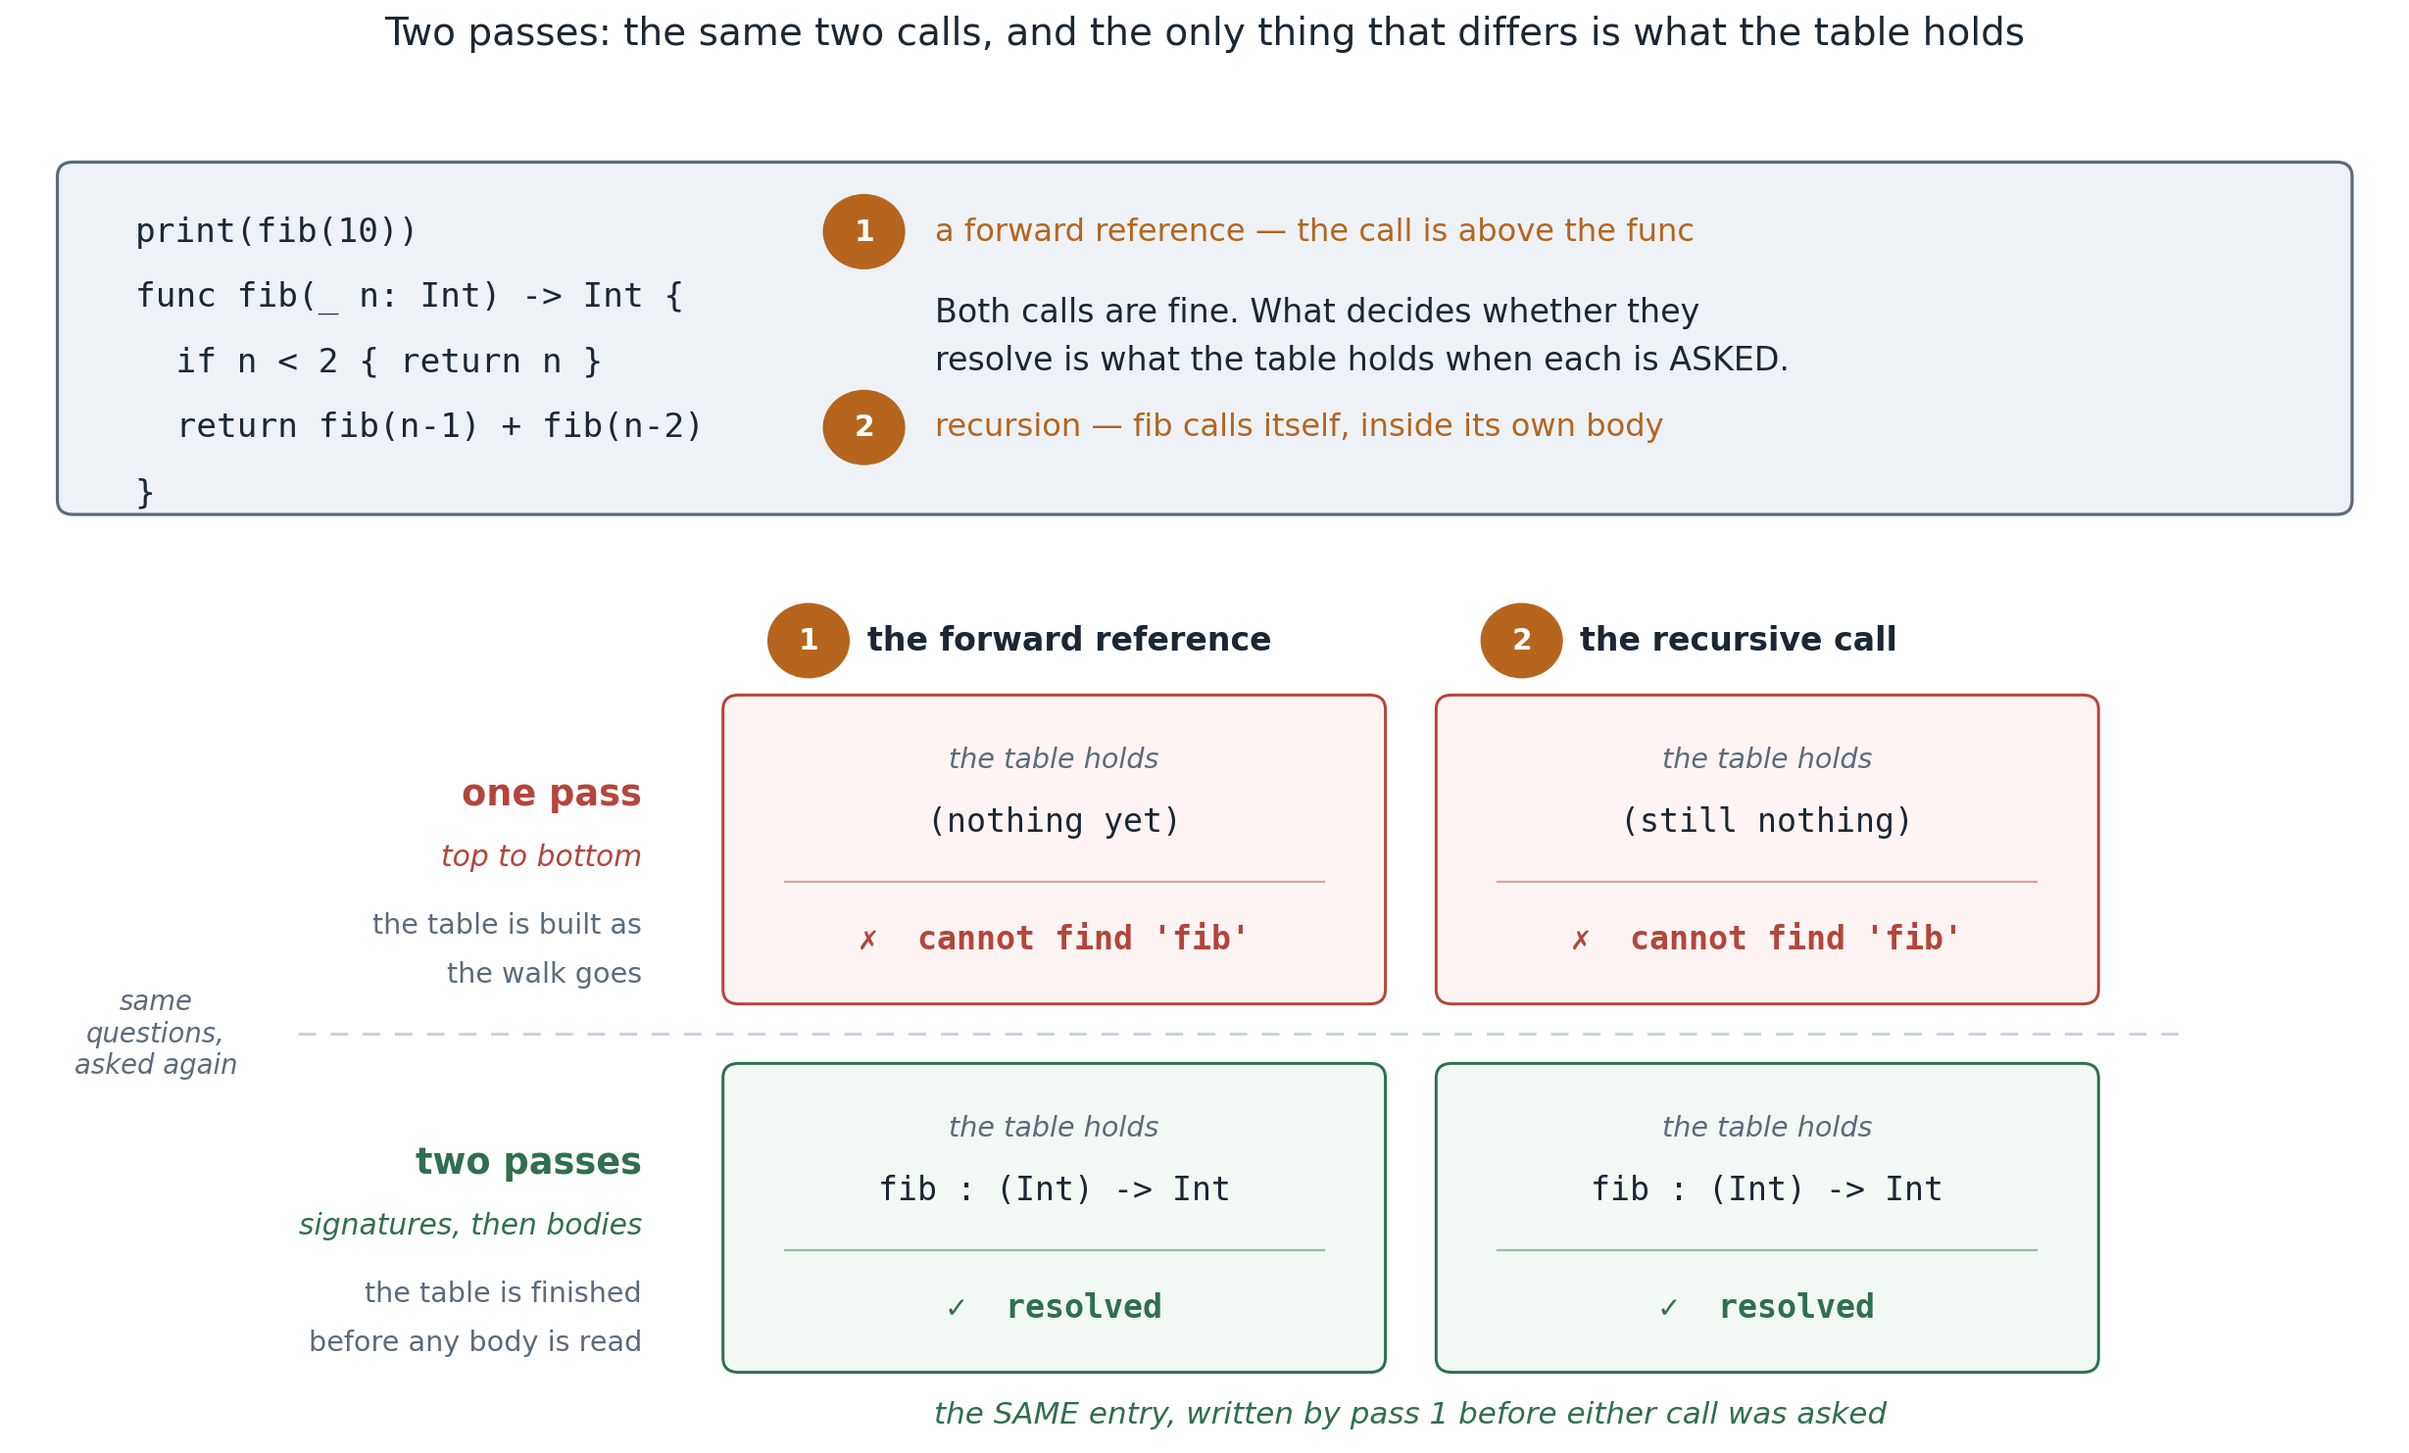
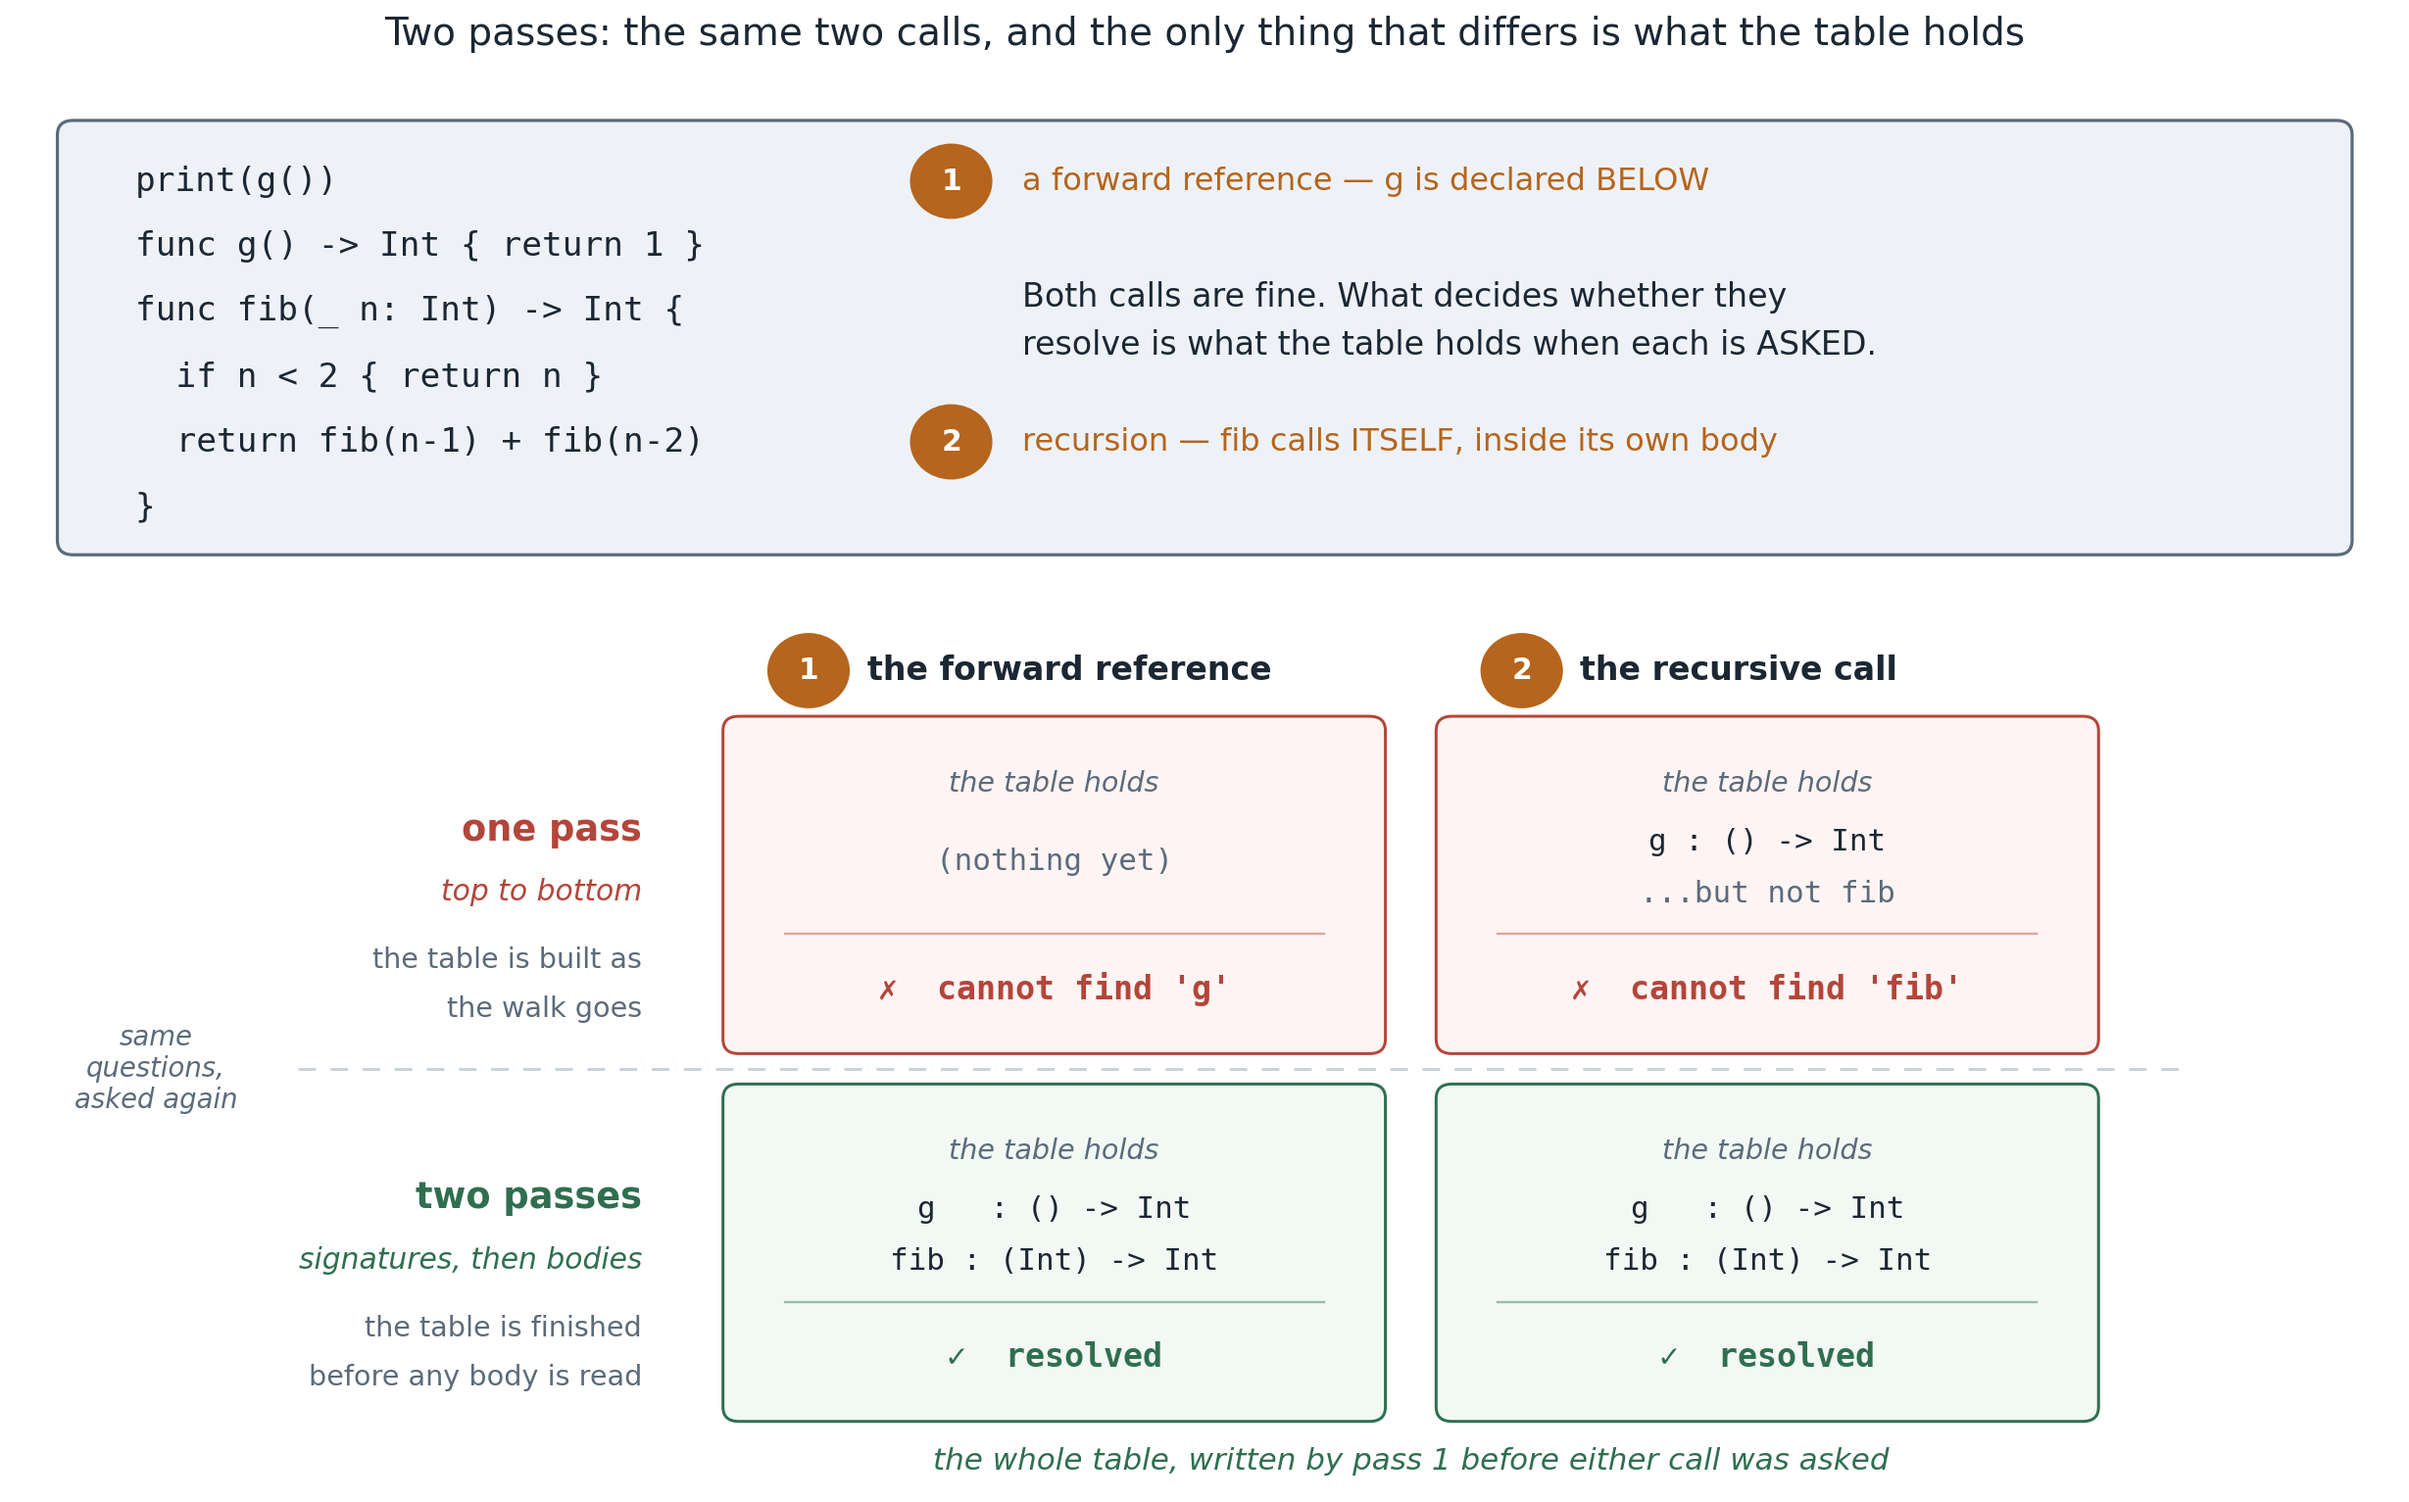
docs(07): use g() for the forward reference, as §2 words it
The figure used fib for both cases, which diverges from the text — §2 introduces
`print(g())` above `func g()` for the forward reference and fib for recursion —
and blurs the two ideas into one: ① is a call to a DIFFERENT function declared
later, ② is a call to itself.

With two functions the one-pass row gets sharper as well. At ② the table is not
empty, as it was when fib was the only declaration: it already holds `g`, read on
the way past. It just does not hold the name being asked for, which is a truer
picture of why the walk order is what decides.

Claude-Session: https://claude.ai/code/session_012HhuWctRnBFnsXUE9JbRuD

diff --git a/course/phase2-types-flow/07-functions/figs/make_figs.py b/course/phase2-types-flow/07-functions/figs/make_figs.py
@@ -43,45 +43,45 @@ def marker(ax, x, y, text, colour, r=0.26):
 
 
 def make_twopass():
-    fig, ax = plt.subplots(figsize=(15.0, 9.1))
+    fig, ax = plt.subplots(figsize=(15.0, 9.4))
     ax.set_xlim(0, 15.0)
-    ax.set_ylim(-0.35, 9.0)
+    ax.set_ylim(-0.55, 9.15)
     ax.axis("off")
 
     # =========================== the program, across the top ======================
-    panel(ax, 0.3, 6.05, 14.4, 2.35, SRC, EDGE)
-    src = ["print(fib(10))", "func fib(_ n: Int) -> Int {", "  if n < 2 { return n }",
-           "  return fib(n-1) + fib(n-2)", "}"]
-    y = 7.96
+    panel(ax, 0.3, 5.92, 14.4, 2.92, SRC, EDGE)
+    src = ["print(g())", "func g() -> Int { return 1 }", "func fib(_ n: Int) -> Int {",
+           "  if n < 2 { return n }", "  return fib(n-1) + fib(n-2)", "}"]
+    y = 8.46
     for i, ln in enumerate(src):
         ax.text(0.75, y, ln, ha="left", va="center", fontsize=15, family="monospace",
                 color=TEXT, zorder=4)
         if i == 0:
-            marker(ax, 5.35, y, "1", HL)
-            ax.text(5.80, y, "a forward reference \u2014 the call is above the func",
+            marker(ax, 5.90, y, "1", HL)
+            ax.text(6.35, y, "a forward reference \u2014 g is declared BELOW",
                     ha="left", va="center", fontsize=14, color=HL, zorder=4)
-        if i == 3:
-            marker(ax, 5.35, y, "2", HL)
-            ax.text(5.80, y, "recursion \u2014 fib calls itself, inside its own body",
+        if i == 4:
+            marker(ax, 5.90, y, "2", HL)
+            ax.text(6.35, y, "recursion \u2014 fib calls ITSELF, inside its own body",
                     ha="left", va="center", fontsize=14, color=HL, zorder=4)
         y -= 0.45
 
     # the thesis, in the panel's own empty right-hand column
-    ax.text(5.80, 7.40, "Both calls are fine. What decides whether they",
+    ax.text(6.35, 7.66, "Both calls are fine. What decides whether they",
             ha="left", va="center", fontsize=14.5, color=TEXT, zorder=4)
-    ax.text(5.80, 7.07, "resolve is what the table holds when each is ASKED.",
+    ax.text(6.35, 7.33, "resolve is what the table holds when each is ASKED.",
             ha="left", va="center", fontsize=14.5, color=TEXT, zorder=4)
 
     # =========================== the matrix =======================================
     COL1, COL2 = 6.55, 11.05        # centres of the two question columns
-    ROWA, ROWB = 3.70, 1.16         # centres of the two regime rows
-    CW, RH = 4.10, 2.05
+    ROWA, ROWB = 3.60, 1.06         # centres of the two regime rows
+    CW, RH = 4.10, 2.25
 
     # column headings
     for cx, badge, label in [(COL1, "1", "the forward reference"),
                              (COL2, "2", "the recursive call")]:
-        marker(ax, cx - 1.55, 5.14, badge, HL)
-        ax.text(cx - 1.18, 5.14, label, ha="left", va="center", fontsize=14.5,
+        marker(ax, cx - 1.55, 5.08, badge, HL)
+        ax.text(cx - 1.18, 5.08, label, ha="left", va="center", fontsize=14.5,
                 fontweight="bold", color=TEXT, zorder=4)
 
     # row headings
@@ -106,20 +106,27 @@ def make_twopass():
     # the four cells
     def cell(cx, cy, face, edge, table, verdict_text, verdict_colour, ok):
         panel(ax, cx - CW / 2, cy - RH / 2, CW, RH, face, edge, lw=1.3)
-        ax.text(cx, cy + 0.62, "the table holds", ha="center", va="center",
+        ax.text(cx, cy + 0.70, "the table holds", ha="center", va="center",
                 fontsize=12.5, color=DIM, style="italic", zorder=4)
-        ax.text(cx, cy + 0.19, table, ha="center", va="center", fontsize=14.5,
-                family="monospace", color=TEXT, zorder=4)
-        ax.plot([cx - CW / 2 + 0.35, cx + CW / 2 - 0.35], [cy - 0.22, cy - 0.22],
+        ty = cy + 0.30 if len(table) > 1 else cy + 0.16
+        for line, colour in table:
+            ax.text(cx, ty, line, ha="center", va="center", fontsize=13.5,
+                    family="monospace", color=colour, zorder=4)
+            ty -= 0.36
+        ax.plot([cx - CW / 2 + 0.35, cx + CW / 2 - 0.35], [cy - 0.34, cy - 0.34],
                 color=edge, linewidth=1, alpha=0.45, zorder=3)
-        ax.text(cx, cy - 0.62, ("\u2713  " if ok else "\u2717  ") + verdict_text,
+        ax.text(cx, cy - 0.72, ("\u2713  " if ok else "\u2717  ") + verdict_text,
                 ha="center", va="center", fontsize=14.5, fontweight="bold",
                 color=verdict_colour, zorder=4, family="monospace")
 
-    cell(COL1, ROWA, BADBG, BAD, "(nothing yet)", "cannot find 'fib'", BAD, False)
-    cell(COL2, ROWA, BADBG, BAD, "(still nothing)", "cannot find 'fib'", BAD, False)
-    cell(COL1, ROWB, "#f2f8f3", GOOD, "fib : (Int) -> Int", "resolved", GOOD, True)
-    cell(COL2, ROWB, "#f2f8f3", GOOD, "fib : (Int) -> Int", "resolved", GOOD, True)
+    # at (2) under one pass the table is NOT empty — it holds g, read on the way past.
+    # It just does not hold the one thing being asked for, which is the sharper failure.
+    cell(COL1, ROWA, BADBG, BAD, [("(nothing yet)", DIM)], "cannot find 'g'", BAD, False)
+    cell(COL2, ROWA, BADBG, BAD, [("g : () -> Int", TEXT), ("...but not fib", DIM)],
+         "cannot find 'fib'", BAD, False)
+    both = [("g   : () -> Int", TEXT), ("fib : (Int) -> Int", TEXT)]
+    cell(COL1, ROWB, "#f2f8f3", GOOD, both, "resolved", GOOD, True)
+    cell(COL2, ROWB, "#f2f8f3", GOOD, both, "resolved", GOOD, True)
 
     # the divider between the two regimes: the figure is a BEFORE and an AFTER, and the
     # rule is what says so — without it the four cells read as one four-part list
@@ -130,7 +137,7 @@ def make_twopass():
             fontsize=12, color=DIM, style="italic", zorder=4)
 
     # the one entry answers both — drawn as a brace under the green row
-    ax.text(8.8, -0.20, "the SAME entry, written by pass 1 before either call was asked",
+    ax.text(8.8, -0.38, "the whole table, written by pass 1 before either call was asked",
             ha="center", va="center", fontsize=13.5, color=GOOD, style="italic", zorder=4)
 
     ax.set_title("Two passes: the same two calls, and the only thing that differs is "
